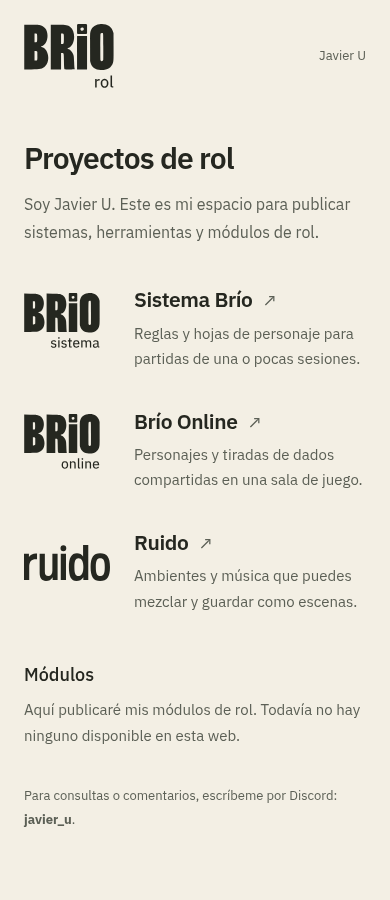
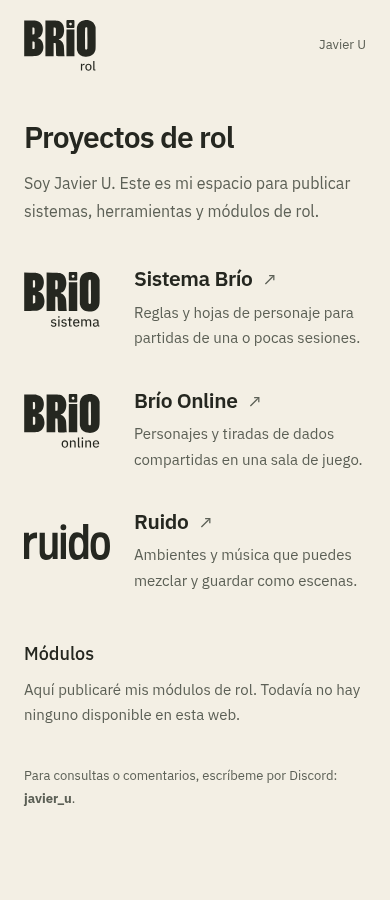
Document and apply compact family header sizes

diff --git a/assets/landing.css b/assets/landing.css
@@ -1,7 +1,7 @@
 .directory-shell{max-width:1120px;padding:0 48px;margin:auto}
-.directory-header{display:flex;justify-content:space-between;align-items:center;gap:24px;padding:32px 0}
+.directory-header{display:flex;justify-content:space-between;align-items:center;gap:24px;padding:24px 0}
 .directory-header>a{display:flex;align-items:center;min-height:44px;text-decoration:none}
-.directory-header img{width:110px;height:auto}
+.directory-header img{width:88px;height:auto}
 .directory-author{font-size:14px;color:var(--muted)}
 .directory-intro{padding:44px 0 56px;max-width:650px}
 .directory-intro h1{font-family:var(--font-text);font-size:36px;font-weight:600;line-height:1.2;letter-spacing:-.03em}
@@ -22,8 +22,8 @@
 .directory-footer{padding:52px 0 36px;font-size:13px;line-height:1.8;color:var(--muted)}
 @media(max-width:760px){
  .directory-shell{padding:0 24px}
- .directory-header{padding:24px 0}
- .directory-header img{width:90px}
+ .directory-header{padding:20px 0}
+ .directory-header img{width:72px}
  .directory-author{font-size:13px}
  .directory-intro{padding:28px 0 40px}
  .directory-intro h1{font-size:30px}

diff --git a/docs/DECISIONS.md b/docs/DECISIONS.md
@@ -145,3 +145,9 @@ La revisión del directorio se comprueba a cinco anchuras, con destinos de enlac
 Fecha: 2026-11-05. Estado: publicada mediante el PR #6 de Ruido.
 
 Ruido adopta su maestro independiente y Plex local. La herramienta conserva el fondo oscuro con tonos cálidos y el rojo de familia adaptado a su contraste. Se reducen marcos redundantes, se adapta la cabecera móvil y se enlaza Brío por separado en el pie. Se conservan las ilustraciones de escenas, la biblioteca, la mezcla y el audio. La especificación detallada y las capturas están en el repo Ruido, `docs/FAMILY-IDENTITY.md` y `docs/previews/`.
+
+## D-022 — Firmas de cabecera más discretas
+
+Fecha: 2026-11-06. Estado: aplicación en curso.
+
+Se reduce alrededor de una quinta parte el tamaño de los logos de cabecera: Brío Rol 88/72 px, Sistema 94/76 px y Ruido 90/76 px (escritorio/móvil). Online pasa a 96 px en la entrada; la firma de sala, ya compacta a 60 px, se conserva. Se ajusta el espacio vertical de las cabeceras. En Ruido la navegación vuelve a una fila cuando hay anchura suficiente; los controles mantienen sus áreas táctiles. No se altera el dibujo de los maestros.
